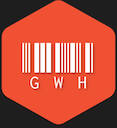
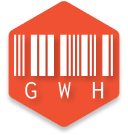
Release-0.2.1 (#9)

diff --git a/src/features/createBranch.ts b/src/features/createBranch.ts
@@ -1,0 +1,46 @@
+import { DIContainerService } from '../DI/DIContainer';
+import { getRepositoryName } from '../helpers/getRepositoryName';
+import { isNotNullDefined } from '../helpers/isNotNullDefined';
+import { GitRepositoriesBranchService } from '../services/git/GitRepositoriesBranchService';
+import { GitRepositoriesService } from '../services/git/GitRepositoriesService';
+import { CustomQuickPick } from '../ui/CustomQuickPick';
+import vscode from 'vscode';
+
+export async function createBranch() {
+  const dIContainerService = new DIContainerService();
+  const gitRepositoriesBranchService = dIContainerService.getByClassName(
+    GitRepositoriesBranchService
+  );
+
+  const gitRepositoriesService =
+    dIContainerService.getByClassName<GitRepositoriesService>(
+      GitRepositoriesService
+    );
+
+  const newBranchName = await vscode.window.showInputBox({
+    title: 'Create branch',
+    placeHolder: 'Enter new branch name',
+  });
+
+  if (!newBranchName) {
+    return;
+  }
+
+  const quickPick = new CustomQuickPick();
+
+  const activeReposNames = gitRepositoriesService.activeRepositories
+    .map(getRepositoryName)
+    .filter(isNotNullDefined);
+
+  quickPick
+    .selectMany()
+    .setItems(activeReposNames.map((name) => ({ label: name })));
+
+  const destinationRepos = await quickPick.show();
+
+  if (!isNotNullDefined(destinationRepos)) {
+    return;
+  }
+
+  gitRepositoriesBranchService.createBranches(newBranchName, destinationRepos);
+}

diff --git a/src/services/features/FeatureManagerService.ts b/src/services/features/FeatureManagerService.ts
@@ -10,10 +10,13 @@ import { unstageChanges } from '../../features/unstageChanges';
 import { configureActiveRepositories } from '../../features/configureActiveRepositories';
 import { FeatureAction } from '../../types/feature';
 import { injectable } from 'tsyringe';
+import { createBranch } from '../../features/createBranch';
+import { VscodeContextService } from '../base/VscodeContextService';
 
 const ACTIONS: [string, FeatureAction][] = [
   ['git-workspace-helper.checkout', checkout],
   ['git-workspace-helper.pull', pull],
+  ['git-workspace-helper.createBranch', createBranch],
   ['git-workspace-helper.merge', merge],
   ['git-workspace-helper.discardChanges', discardChanges],
   ['git-workspace-helper.stageChanges', stageChanges],
@@ -32,10 +35,12 @@ export class FeatureManagerService {
     this.register = this.register.bind(this);
   }
 
-  register(context: vscode.ExtensionContext) {
+  register() {
     ACTIONS.forEach(([command, action]) => {
-      context.subscriptions.push(
-        vscode.commands.registerCommand(command, () => action(context))
+      VscodeContextService.context.subscriptions.push(
+        vscode.commands.registerCommand(command, () =>
+          action(VscodeContextService.context)
+        )
       );
     });
   }

diff --git a/src/services/git/GitRepositoryService.ts b/src/services/git/GitRepositoryService.ts
@@ -10,6 +10,10 @@ export class GitRepositoryService {
     this.getCommitInfo = this.getCommitInfo.bind(this);
     this.pull = this.pull.bind(this);
     this.discardChanges = this.discardChanges.bind(this);
+    this.merge = this.merge.bind(this);
+    this.commit = this.commit.bind(this);
+    this.push = this.push.bind(this);
+    this.createBranch = this.createBranch.bind(this);
   }
 
   private getRepository(name: string) {
@@ -29,6 +33,22 @@ export class GitRepositoryService {
       sort: 'committerdate',
       remote: true,
     });
+  }
+
+  async createBranch(repoName: string, branchName: string) {
+    const repo = this.getRepository(repoName);
+
+    if (!repo) {
+      throw new Error('Repository not found');
+    }
+
+    const branch = await repo.getBranch(branchName);
+
+    if (branch.name === branchName) {
+      throw new Error('This branch already exists');
+    }
+
+    await repo.createBranch(branchName, true);
   }
 
   async findClosestCommitByDate(repoName: string, date: Date) {

diff --git a/src/services/git/GitRepositoriesBranchService.ts b/src/services/git/GitRepositoriesBranchService.ts
@@ -2,6 +2,7 @@ import { inject, singleton } from 'tsyringe';
 import { GitRepositoryService } from './GitRepositoryService';
 import { getRepositoryName } from '../../helpers/getRepositoryName';
 import { GitRepositoriesService } from './GitRepositoriesService';
+import { isNotNullDefined } from '../../helpers/isNotNullDefined';
 
 const ORIGIN_PREFIX = 'origin/';
 
@@ -40,5 +41,18 @@ export class GitRepositoriesBranchService {
     }
 
     return Array.from(branchesNames);
+  }
+
+  async createBranches(branchName: string, filterRepoNames: string[] = []) {
+    const destReposNamesSet = new Set(filterRepoNames);
+
+    const activeReposNames = this.gitRepositoriesService.activeRepositories
+      .map(getRepositoryName)
+      .filter(isNotNullDefined)
+      .filter((name) => !destReposNamesSet.size || destReposNamesSet.has(name));
+
+    for (const repoName of activeReposNames) {
+      this.repositoryGitService.createBranch(repoName, branchName);
+    }
   }
 }

diff --git a/src/extension.ts b/src/extension.ts
@@ -1,8 +1,8 @@
 import 'reflect-metadata';
-import * as vscode from 'vscode';
+import vscode from 'vscode';
 import { DIContainerService } from './DI/DIContainer';
 import { FeatureManagerService } from './services/features/FeatureManagerService';
-import { VscodeContextService } from './services/VscodeContextService';
+import { VscodeContextService } from './services/base/VscodeContextService';
 
 const diContainerService = new DIContainerService();
 
@@ -20,7 +20,7 @@ export function activate(context: vscode.ExtensionContext) {
       FeatureManagerService
     );
 
-  featureManagerService.register(context);
+  featureManagerService.register();
 }
 
 export async function deactivate() {

diff --git a/src/services/servicesClassRegistry.ts b/src/services/servicesClassRegistry.ts
@@ -6,11 +6,9 @@ import { SettingsService } from './settings/SettingsService';
 import { FeatureManagerService } from './features/FeatureManagerService';
 import { GitRepositoriesActionsService } from './git/GitRepositoriesActionsService';
 import { GitRepositoriesBranchService } from './git/GitRepositoriesBranchService';
-import { VscodeContextService } from './VscodeContextService';
-import { WorkSpaceCacheService } from './WorkspaceCacheService';
+import { WorkSpaceCacheService } from './base/WorkspaceCacheService';
 
 export const SERVICES_CLASS_REGISTRY: InjectionToken<any>[] = [
-  VscodeContextService,
   WorkSpaceCacheService,
   GitService,
   GitRepositoryService,

diff --git a/src/services/git/GitRepositoriesService.ts b/src/services/git/GitRepositoriesService.ts
@@ -1,6 +1,6 @@
 import { inject, injectable } from 'tsyringe';
 import { GitService } from './GitService';
-import { WorkSpaceCacheService } from '../WorkspaceCacheService';
+import { WorkSpaceCacheService } from '../base/WorkspaceCacheService';
 import { getRepositoryName } from '../../helpers/getRepositoryName';
 import { isNotNullDefined } from '../../helpers/isNotNullDefined';
 

diff --git a/src/services/base/VscodeContextService.ts b/src/services/base/VscodeContextService.ts
@@ -1,7 +1,5 @@
-import { injectable } from 'tsyringe';
-import vscode, { ExtensionContext } from 'vscode';
+import { ExtensionContext } from 'vscode';
 
-@injectable()
 export class VscodeContextService {
   private static _extContext: ExtensionContext;
 

diff --git a/README.md b/README.md
@@ -1,5 +1,13 @@
 ## How to use it
 
+#### UI:
+
+1. Go to Source Control feature
+2. See the commands in the header ("..." - also here)
+3. Execute the one you need
+
+#### Command palette:
+
 1. Open command palette (CMD/ctrl + shift + P)
 2. Type "gwh"
 3. See the available commands
@@ -11,6 +19,7 @@
 - Push All - Pushes all commits in each repository
 - Merge All To Current Branch - Merges branch by name to all repositories current branch
 - Pull All - Pulls coming code in each repository
+- Create branch - Creates new branch for for all selected repositories
 - Configure Active Repositories - Sets active repositories which will be used for other listed commands. By default all repositories in workspace are selected
 - Checkout To Commit - switches repository to the specific commit + switches other repositories to the closest by the date commits.
 - Checkout To Branch - switches repository to the specific branch. If branch is not found it stays as it is.

diff --git a/CHANGELOG.md b/CHANGELOG.md
@@ -53,3 +53,9 @@
 
 - Renamed app and some features
 - Changed logo
+
+### 0.2.1
+
+- Adds all of the features to the UI
+- Adds "Create Branch" feature
+- Adds new icon
